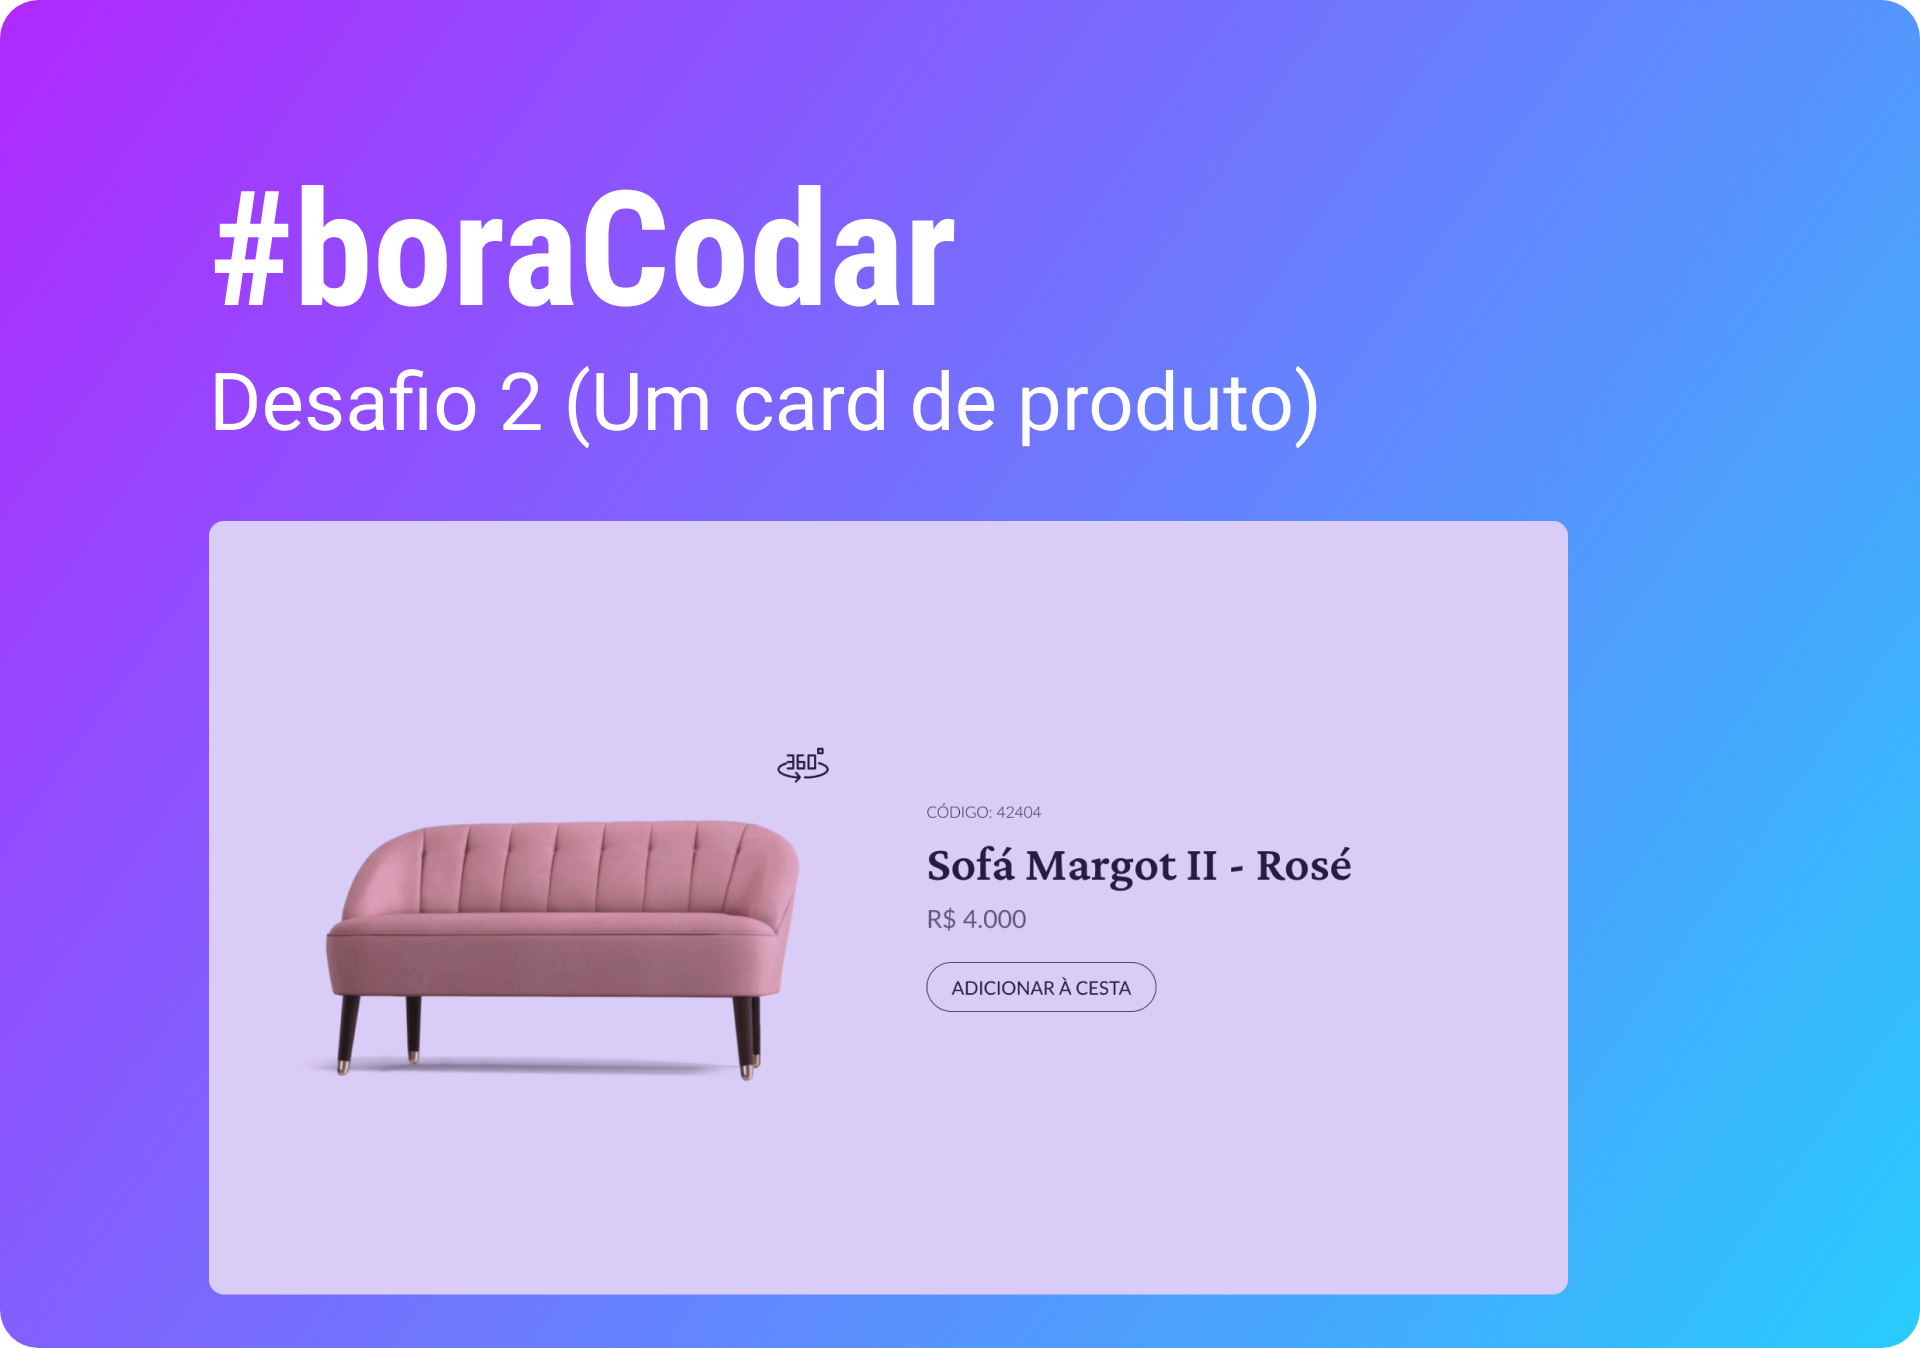
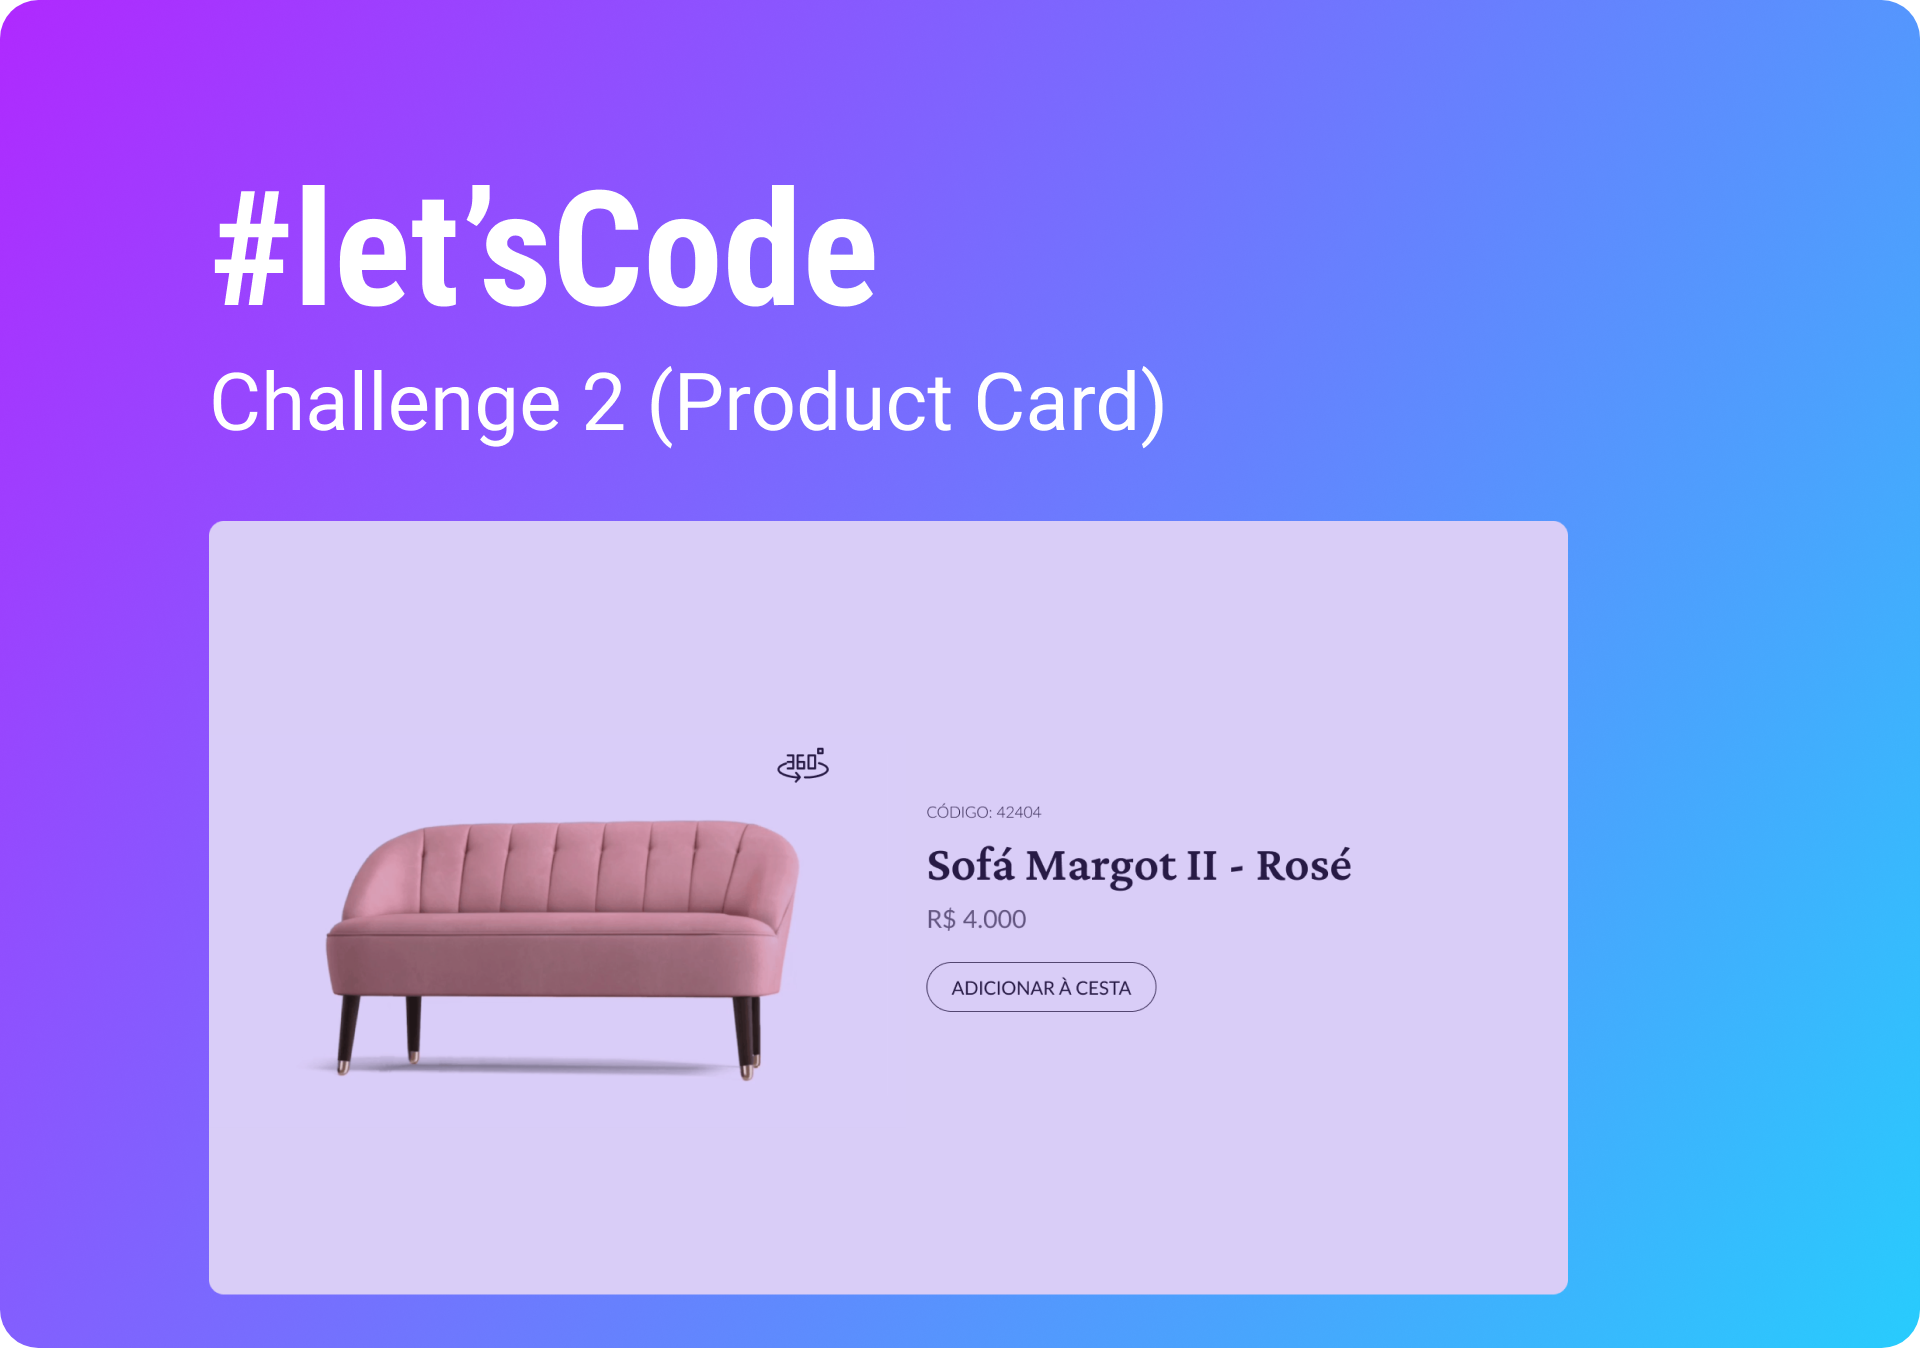
:books: docs: Add cover

Changed region(s): [[0.1562, 0.1246, 0.5, 0.2493], [0.125, 0.2804, 0.6875, 0.3427]]

diff --git a/events/boracodar.dev/03-buttons-and-cursors/README.md b/events/boracodar.dev/03-buttons-and-cursors/README.md
@@ -14,14 +14,22 @@ Different kinds of buttons and cursors available. <br/>
 <br/>
 
 <p align="center">
-  <img alt="Project photo showing a screen with different buttons and actions." src=".github/preview-cover.gif" width="50%" />
+  <img alt="Project photo showing a screen with different buttons and actions." src=".github/cover.png" width="90%" />
 </p>
 
 <br/>
 
 ## 📝 Live Preview 
 
-- [Link](https://diegommagno.com/github/rocketseat/events/boracodar.dev/03-buttons-and-cursors/)
+- [Buttons and Cursors](https://diegommagno.com/github/rocketseat/events/boracodar.dev/03-buttons-and-cursors/)
+
+<br/>
+
+<p align="center">
+  <img alt="Project photo showing a screen with different buttons and actions." src=".github/preview-cover.gif" width="50%" />
+</p>
+
+<br/>
 
 ## 🎨 Layout
 

diff --git a/events/boracodar.dev/04-chat/README.md b/events/boracodar.dev/04-chat/README.md
@@ -21,9 +21,7 @@ This was an introduction to programming event with three different landing page 
 
 ## 📝 Live Preview 
 
-- [Horror Game of the Year](https://diegommagno.com/github/rocketseat/events/zero-to-first-job-journey/horror-game-of-the-year)
-- [Travel Expert](https://diegommagno.com/github/rocketseat/events/zero-to-first-job-journey/travel-expert)
-- [Healthy Recipes](https://diegommagno.com/github/rocketseat/events/zero-to-first-job-journey/healthy-recipes)
+- [Chat](https://diegommagno.com/github/rocketseat/events/zero-to-first-job-journey/horror-game-of-the-year)
 
 <br/>
 
